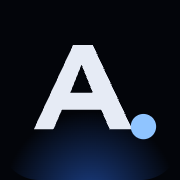
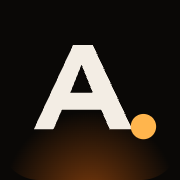
Switch to the Solar flare palette in both themes
- Dark: warm black sky, warm starlight text, amber accent and sky-blue
  second colour; light: warm daylight paper, deep-brown ink, burnt amber
  and deep blue. All text passes WCAG AA in both
- Retint the 3D sky (clear colour, nebulae, light-theme stars, meteors),
  the hero satellite and orbit, the About radar porthole and the rocket
- Hero numbers sit on a small panel so they stay readable over Earth's
  glow, and fit on one line on most phones
- New favicon, app icon and share image; browser bar colours to match

Claude-Session: https://claude.ai/code/session_01RCJheom3Potbtu7RYXNaPb

Changed region(s): [[0.1111, 0.6111, 0.8889, 1.0]]

diff --git a/src/sections/Hero.jsx b/src/sections/Hero.jsx
@@ -13,7 +13,7 @@ import { Magnetic, Roll, ease } from '../lib/motion'
 
 const resume = `./${profile.resume}`
 const telemetry = [
-  [`${stats[0].v}${stats[0].suffix}`, 'years in QA'],
+  [`${stats[0].v}${stats[0].suffix}`, 'years'],
   [stats[1].v, 'certifications'],
   [stats[2].v, 'awards'],
 ]
@@ -96,14 +96,14 @@ function Satellite({ reduce }) {
   return (
     <motion.div aria-hidden className="pointer-events-none absolute" style={{ left, top, zIndex: z }}>
       <motion.svg viewBox="0 0 64 28" className="-ml-6 -mt-3 w-12" style={{ scale, opacity }}>
-        <rect x="1" y="9" width="20" height="10" rx="1" fill="#0d2e30" stroke="#5ee6c8" strokeWidth="1" />
-        <rect x="43" y="9" width="20" height="10" rx="1" fill="#0d2e30" stroke="#5ee6c8" strokeWidth="1" />
-        <path d="M8 9v10M14 9v10M50 9v10M56 9v10" stroke="#5ee6c8" strokeWidth="0.6" />
+        <rect x="1" y="9" width="20" height="10" rx="1" fill="var(--panel)" stroke="var(--accent)" strokeWidth="1" />
+        <rect x="43" y="9" width="20" height="10" rx="1" fill="var(--panel)" stroke="var(--accent)" strokeWidth="1" />
+        <path d="M8 9v10M14 9v10M50 9v10M56 9v10" stroke="var(--accent)" strokeWidth="0.6" />
         <path d="M21 14h5M38 14h5" stroke="#cfdcf3" strokeWidth="1.2" />
         <rect x="26" y="7" width="12" height="14" rx="2" fill="#dfe7f5" />
         <rect x="28.5" y="10" width="7" height="4" rx="0.8" fill="#1f9e86" />
         <path d="M32 7V3" stroke="#dfe7f5" strokeWidth="1" />
-        <circle cx="32" cy="2.5" r="1.4" fill="#b79cff" />
+        <circle cx="32" cy="2.5" r="1.4" fill="var(--signal)" />
       </motion.svg>
     </motion.div>
   )
@@ -142,7 +142,7 @@ export default function Hero({ ready, intro = true }) {
             animate={ready ? { opacity: 1 } : undefined}
             transition={{ duration: 1.2, delay: 0.8 }}
           >
-            <ellipse cx="50" cy="20" rx="46" ry="16" fill="none" stroke="rgb(94 230 200 / 0.2)" strokeWidth="0.15" strokeDasharray="0.6 0.9" vectorEffect="non-scaling-stroke" />
+            <ellipse cx="50" cy="20" rx="46" ry="16" fill="none" style={{ stroke: 'color-mix(in srgb, var(--accent) 22%, transparent)' }} strokeWidth="0.15" strokeDasharray="0.6 0.9" vectorEffect="non-scaling-stroke" />
           </motion.svg>
           <h1 className="relative z-[1] font-display text-[clamp(3.25rem,10vw,7.5rem)] font-normal leading-[0.95] tracking-[-0.01em]">
             <span className="sr-only">Abhishek Kumar, {profile.role}</span>
@@ -179,7 +179,7 @@ export default function Hero({ ready, intro = true }) {
         </motion.div>
 
         {/* mission telemetry: the headline numbers, readable in the first frame */}
-        <motion.ul {...show(0.8)} className="mt-8 flex flex-wrap justify-center gap-x-7 gap-y-2 font-mono text-[11px] uppercase tracking-[0.16em] text-mute">
+        <motion.ul {...show(0.8)} className="panel mx-auto mt-8 flex w-fit max-w-full flex-wrap justify-center gap-x-4 gap-y-1 rounded-2xl px-4 py-2 font-mono text-[10.5px] uppercase tracking-[0.1em] text-mute sm:gap-x-7 sm:rounded-full sm:px-5 sm:text-[11px] sm:tracking-[0.16em]">
           {telemetry.map(([v, k]) => (
             <li key={k} className="flex items-baseline gap-2">
               <span className="text-[13px] text-fg">{v}</span>

diff --git a/src/components/SpaceScene.jsx b/src/components/SpaceScene.jsx
@@ -197,7 +197,7 @@ void main(){
   float d = length(gl_PointCoord - 0.5);
   float a = smoothstep(0.5, 0.0, d);
   // In the light theme stars become slate specks on the grey daytime sky.
-  vec3 c = mix(vColor, vec3(0.22, 0.28, 0.4), uLight);
+  vec3 c = mix(vColor, vec3(0.36, 0.27, 0.18), uLight);
   gl_FragColor = vec4(c, a * a * vAlpha * (1.0 - uLight * 0.35));
 }
 `
@@ -289,7 +289,7 @@ export default function SpaceScene({ launched }) {
       return // no WebGL: the CSS gradient behind the canvas stays as the backdrop
     }
     renderer.setPixelRatio(Math.min(window.devicePixelRatio, small ? 1.25 : 1.5))
-    renderer.setClearColor(0x03050a, 1)
+    renderer.setClearColor(0x0a0806, 1)
 
     const scene = new THREE.Scene()
     const camera = new THREE.PerspectiveCamera(50, 1, 0.5, 4000)
@@ -309,10 +309,10 @@ export default function SpaceScene({ launched }) {
     const glow = glowTexture()
     const nebulae = []
     ;[
-      [-420, 160, -380, 900, 0x3b5bdb, 0.1],
-      [520, -120, -950, 1300, 0x6d4bd8, 0.08],
-      [-300, -200, -1500, 1500, 0x1c7ed6, 0.09],
-      [250, 220, -2100, 1600, 0x9c36b5, 0.06],
+      [-420, 160, -380, 900, 0xc8641c, 0.09],
+      [520, -120, -950, 1300, 0x1d5f9e, 0.08],
+      [-300, -200, -1500, 1500, 0x8a3d14, 0.1],
+      [250, 220, -2100, 1600, 0x3b6fb0, 0.06],
     ].forEach(([x, y, z, s, color, opacity]) => {
       const sp = new THREE.Sprite(
         new THREE.SpriteMaterial({ map: glow, color, opacity, blending: THREE.AdditiveBlending, depthWrite: false }),
@@ -385,7 +385,7 @@ export default function SpaceScene({ launched }) {
 
     // Meteors: short streaks that cross the view every few seconds
     const meteorGeo = new THREE.BufferGeometry().setFromPoints([new THREE.Vector3(), new THREE.Vector3()])
-    const meteorMat = new THREE.LineBasicMaterial({ color: 0xcfe1ff, transparent: true, opacity: 0, blending: THREE.AdditiveBlending })
+    const meteorMat = new THREE.LineBasicMaterial({ color: 0xffe6c4, transparent: true, opacity: 0, blending: THREE.AdditiveBlending })
     const meteor = new THREE.Line(meteorGeo, meteorMat)
     scene.add(meteor)
     const m = { t: 1, next: 4, from: new THREE.Vector3(), dir: new THREE.Vector3() }
@@ -489,7 +489,7 @@ export default function SpaceScene({ launched }) {
       const light = document.documentElement.dataset.theme === 'light'
       lightTheme = light
       const blend = light ? THREE.NormalBlending : THREE.AdditiveBlending
-      renderer.setClearColor(light ? 0xe3e8ef : 0x03050a, 1)
+      renderer.setClearColor(light ? 0xefe8dc : 0x0a0806, 1)
       starMat.uniforms.uLight.value = light ? 1 : 0
       starMat.blending = blend
       for (const sp of nebulae) {
@@ -499,7 +499,7 @@ export default function SpaceScene({ launched }) {
       }
       atmo.material.blending = blend
       meteorMat.blending = blend
-      meteorMat.color.set(light ? 0x2a3b5c : 0xcfe1ff)
+      meteorMat.color.set(light ? 0x5a4126 : 0xffe6c4)
       for (const mat of [starMat, atmo.material, meteorMat]) mat.needsUpdate = true
       if (reduce) renderer.render(scene, camera)
     }

diff --git a/src/sections/Experience.jsx b/src/sections/Experience.jsx
@@ -58,7 +58,7 @@ function Rocket({ separated, reduce }) {
         animate={reduce ? undefined : { scaleY: [1, 1.35, 0.9, 1.2, 1], opacity: [0.9, 1, 0.8, 1, 0.9] }}
         transition={{ duration: 0.5, repeat: Infinity }}
       >
-        <path d={separated ? 'M14 74 Q20 104 26 74 Z' : 'M13 104 Q20 140 27 104 Z'} fill="var(--signal)" opacity="0.85" />
+        <path d={separated ? 'M14 74 Q20 104 26 74 Z' : 'M13 104 Q20 140 27 104 Z'} fill="var(--accent)" opacity="0.9" />
         <path d={separated ? 'M17 74 Q20 92 23 74 Z' : 'M16 104 Q20 126 24 104 Z'} fill="var(--star)" />
       </motion.g>
       {/* booster */}
@@ -68,13 +68,13 @@ function Rocket({ separated, reduce }) {
         style={{ originX: '20px', originY: '90px' }}
       >
         <rect x="12" y="74" width="16" height="30" rx="2" fill="var(--panel)" stroke="var(--fg)" strokeWidth="1.4" />
-        <path d="M12 92 L5 106 L12 104 Z M28 92 L35 106 L28 104 Z" fill="var(--accent)" />
+        <path d="M12 92 L5 106 L12 104 Z M28 92 L35 106 L28 104 Z" fill="var(--signal)" />
         <line x1="12" y1="82" x2="28" y2="82" stroke="var(--line)" />
       </motion.g>
       {/* upper stage */}
       <path d="M20 4 C29 16 30 34 30 46 L30 72 L10 72 L10 46 C10 34 11 16 20 4 Z" fill="var(--panel)" stroke="var(--fg)" strokeWidth="1.4" />
-      <circle cx="20" cy="34" r="5" fill="var(--bg)" stroke="var(--accent)" strokeWidth="1.6" />
-      <path d="M10 60 L4 72 L10 72 Z M30 60 L36 72 L30 72 Z" fill="var(--accent)" />
+      <circle cx="20" cy="34" r="5" fill="var(--bg)" stroke="var(--signal)" strokeWidth="1.6" />
+      <path d="M10 60 L4 72 L10 72 Z M30 60 L36 72 L30 72 Z" fill="var(--signal)" />
       <line x1="10" y1="72" x2="30" y2="72" stroke="var(--fg)" strokeWidth="1.4" />
     </svg>
   )
@@ -141,7 +141,7 @@ function Gauge({ progress, active, separated }) {
           {/* exhaust trail from the engine down to the pad */}
           <motion.span
             aria-hidden
-            className="absolute left-1/2 w-[2px] -translate-x-1/2 bg-gradient-to-b from-[var(--signal)] to-transparent"
+            className="absolute left-1/2 w-[2px] -translate-x-1/2 bg-gradient-to-b from-[var(--accent)] to-transparent"
             style={{ top: separated ? 'calc(100% - 56px)' : 'calc(100% - 18px)', height: separated ? trailUpper : trailFull }}
           />
           <Rocket separated={separated} reduce={reduce} />
@@ -171,7 +171,7 @@ function MiniGauge({ progress, active }) {
       </div>
       <div className="relative mt-2.5 h-[18px]">
         <div className="absolute inset-x-0 top-1/2 h-px bg-line" />
-        <motion.div className="absolute left-0 top-1/2 h-px bg-[var(--signal)]" style={{ width: left }} />
+        <motion.div className="absolute left-0 top-1/2 h-px bg-[var(--accent)]" style={{ width: left }} />
         {stages.map((s, i) => (
           <span
             key={s.id}

diff --git a/src/index.css b/src/index.css
@@ -1,50 +1,51 @@
 @import "tailwindcss";
 
-/* Two themes. Dark (default): near-black sky, starlight text, one cool
-   accent and one warm signal colour used sparingly. Light: a cool grey
-   daytime sky with ink text. Secondary text stays at 6.5:1 or better in
-   both. Toggled by data-theme on <html>; the choice is remembered. */
+/* Two themes, "Solar flare". Dark (default): a warm black sky, warm
+   starlight text, amber as the main accent and sky blue as the second
+   colour, used sparingly. Light: warm daylight paper with deep-brown ink,
+   burnt amber and a deep blue. Grey text stays at 4.8:1 or better in both.
+   Toggled by data-theme on <html>; the choice is remembered. */
 :root,
 :root[data-theme="dark"] {
   color-scheme: dark;
-  --bg: #04080b;
-  --surface: rgb(150 230 215 / 0.04);
-  --surface-2: rgb(150 230 215 / 0.08);
-  --fg: #e8f1f2;
-  --mute: #9fb3b8;
-  --line: rgb(150 225 210 / 0.18);
-  --ink: #e8f1f2;
-  --on-ink: #04080b;
-  --accent: #5ee6c8;
-  --signal: #b79cff;
-  --panel: rgb(6 16 20 / 0.72);
-  --stage: rgb(6 16 20 / 0.45);
-  --star: #ffffff;
-  --halo: 0 1px 14px rgb(4 8 11 / 0.9), 0 0 2px rgb(4 8 11 / 0.6);
-  --sky-top: #082a33;
-  --sky: #04080b;
+  --bg: #0a0806;
+  --surface: rgb(255 210 150 / 0.04);
+  --surface-2: rgb(255 210 150 / 0.08);
+  --fg: #f3ede4;
+  --mute: #b8ab98;
+  --line: rgb(255 210 150 / 0.17);
+  --ink: #f3ede4;
+  --on-ink: #0a0806;
+  --accent: #ffb54d;
+  --signal: #8ec9ff;
+  --panel: rgb(22 16 10 / 0.72);
+  --stage: rgb(22 16 10 / 0.45);
+  --star: #fff6e6;
+  --halo: 0 1px 14px rgb(10 8 6 / 0.9), 0 0 2px rgb(10 8 6 / 0.6);
+  --sky-top: #2a1606;
+  --sky: #0a0806;
   --vignette: rgb(0 0 0 / 0.55);
 }
 
 :root[data-theme="light"] {
   color-scheme: light;
-  --bg: #f2f6f6;
-  --surface: rgb(14 40 44 / 0.04);
-  --surface-2: rgb(14 40 44 / 0.07);
-  --fg: #0e1a1c;
-  --mute: #45585c;
-  --line: rgb(14 26 28 / 0.14);
-  --ink: #0e1a1c;
-  --on-ink: #f4f8f8;
-  --accent: #0a7563;
-  --signal: #6a4fd1;
-  --panel: rgb(255 255 255 / 0.78);
+  --bg: #f7f3ec;
+  --surface: rgb(60 40 15 / 0.04);
+  --surface-2: rgb(60 40 15 / 0.07);
+  --fg: #1d160d;
+  --mute: #5f5444;
+  --line: rgb(29 22 13 / 0.14);
+  --ink: #1d160d;
+  --on-ink: #faf6ef;
+  --accent: #a9530a;
+  --signal: #1d5f9e;
+  --panel: rgb(255 255 255 / 0.75);
   --stage: rgb(255 255 255 / 0.5);
-  --star: #0a7563;
-  --halo: 0 1px 12px rgb(242 246 246 / 0.9), 0 0 2px rgb(242 246 246 / 0.7);
+  --star: #a9530a;
+  --halo: 0 1px 12px rgb(247 243 236 / 0.9), 0 0 2px rgb(247 243 236 / 0.7);
   --sky-top: #ffffff;
-  --sky: #e2eceb;
-  --vignette: rgb(190 210 208 / 0.4);
+  --sky: #efe6d8;
+  --vignette: rgb(215 195 165 / 0.4);
 }
 
 @theme inline {

diff --git a/src/sections/About.jsx b/src/sections/About.jsx
@@ -67,14 +67,14 @@ function Porthole() {
           />
         ))}
       </motion.svg>
-      <div className="absolute inset-[6%] rounded-full border border-line bg-[#060a14] p-[5%] shadow-[inset_0_0_40px_rgb(0_0_0/0.8),0_0_60px_rgb(77_141_255/0.08)]">
-        <div className="relative h-full w-full overflow-hidden rounded-full bg-[radial-gradient(circle,#0b1a33,#050913_70%)]">
+      <div className="absolute inset-[6%] rounded-full border border-line bg-[#120c06] p-[5%] shadow-[inset_0_0_40px_rgb(0_0_0/0.8),0_0_60px_rgb(255_160_60/0.08)]">
+        <div className="relative h-full w-full overflow-hidden rounded-full bg-[radial-gradient(circle,#2a1808,#0c0805_70%)]">
           {[22, 38, 50].map((r) => (
-            <span key={r} aria-hidden className="absolute rounded-full border border-[rgb(143_196_255/0.15)]" style={{ inset: `${50 - r}%` }} />
+            <span key={r} aria-hidden className="absolute rounded-full border border-[rgb(255_196_130/0.15)]" style={{ inset: `${50 - r}%` }} />
           ))}
-          <span aria-hidden className="absolute inset-y-0 left-1/2 w-px bg-[rgb(143_196_255/0.1)]" />
-          <span aria-hidden className="absolute inset-x-0 top-1/2 h-px bg-[rgb(143_196_255/0.1)]" />
-          <span aria-hidden className="sweep absolute inset-0 rounded-full bg-[conic-gradient(from_0deg,rgb(143_196_255/0.28),transparent_22%)]" />
+          <span aria-hidden className="absolute inset-y-0 left-1/2 w-px bg-[rgb(255_196_130/0.1)]" />
+          <span aria-hidden className="absolute inset-x-0 top-1/2 h-px bg-[rgb(255_196_130/0.1)]" />
+          <span aria-hidden className="sweep absolute inset-0 rounded-full bg-[conic-gradient(from_0deg,rgb(255_181_77/0.3),transparent_22%)]" />
           {blips.map(([x, y, d]) => (
             <motion.span
               key={`${x}-${y}`}
@@ -85,7 +85,7 @@ function Porthole() {
               transition={{ duration: 6, repeat: Infinity, delay: d, ease: 'easeInOut' }}
             />
           ))}
-          <span className="absolute inset-0 grid place-items-center font-display text-6xl italic text-[#e6ebf5] [text-shadow:none]">AK</span>
+          <span className="absolute inset-0 grid place-items-center font-display text-6xl italic text-[#f6efe4] [text-shadow:none]">AK</span>
         </div>
       </div>
     </div>

diff --git a/index.html b/index.html
@@ -8,7 +8,7 @@
     <meta name="author" content="Abhishek Kumar" />
     <meta name="google-site-verification" content="AibNwcviTGMCdOVkGT77zfWSPhGmv-8xL150qojgdfA" />
     <meta name="robots" content="index, follow, max-image-preview:large" />
-    <meta name="theme-color" content="#04080b" />
+    <meta name="theme-color" content="#0a0806" />
     <link rel="canonical" href="https://abhi23raj472.github.io/Abhishek-Kumar/" />
 
     <!-- Link previews (LinkedIn, WhatsApp, Slack, X) -->
@@ -68,7 +68,7 @@
         try { t = localStorage.getItem('ak-portfolio-theme') } catch (e) {}
         t = t === 'light' ? 'light' : 'dark'
         document.documentElement.dataset.theme = t
-        if (t === 'light') document.querySelector('meta[name="theme-color"]').setAttribute('content', '#eef1f5')
+        if (t === 'light') document.querySelector('meta[name="theme-color"]').setAttribute('content', '#f7f3ec')
       })()
     </script>
   </head>

diff --git a/src/components/Nav.jsx b/src/components/Nav.jsx
@@ -32,7 +32,7 @@ function ThemeToggle() {
   const toggle = () => {
     const next = light ? 'dark' : 'light'
     document.documentElement.dataset.theme = next
-    document.querySelector('meta[name="theme-color"]')?.setAttribute('content', next === 'light' ? '#eef1f5' : '#03050a')
+    document.querySelector('meta[name="theme-color"]')?.setAttribute('content', next === 'light' ? '#f7f3ec' : '#0a0806')
     try {
       localStorage.setItem(THEME_KEY, next)
     } catch {
